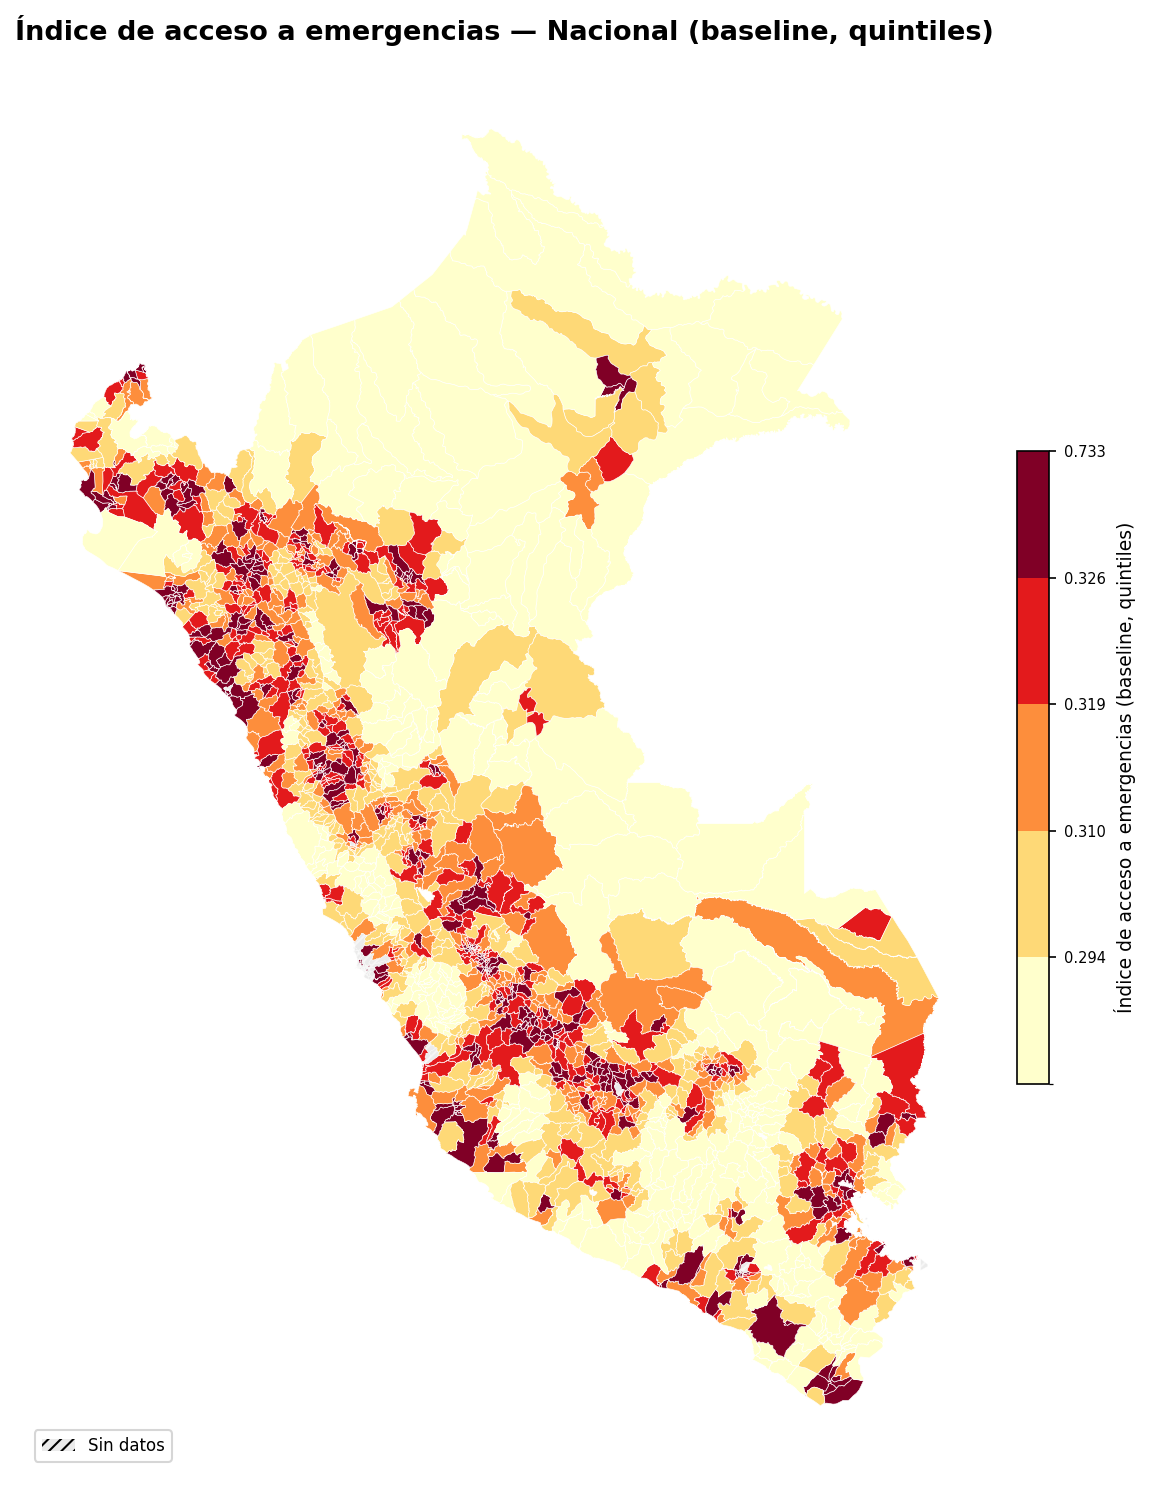
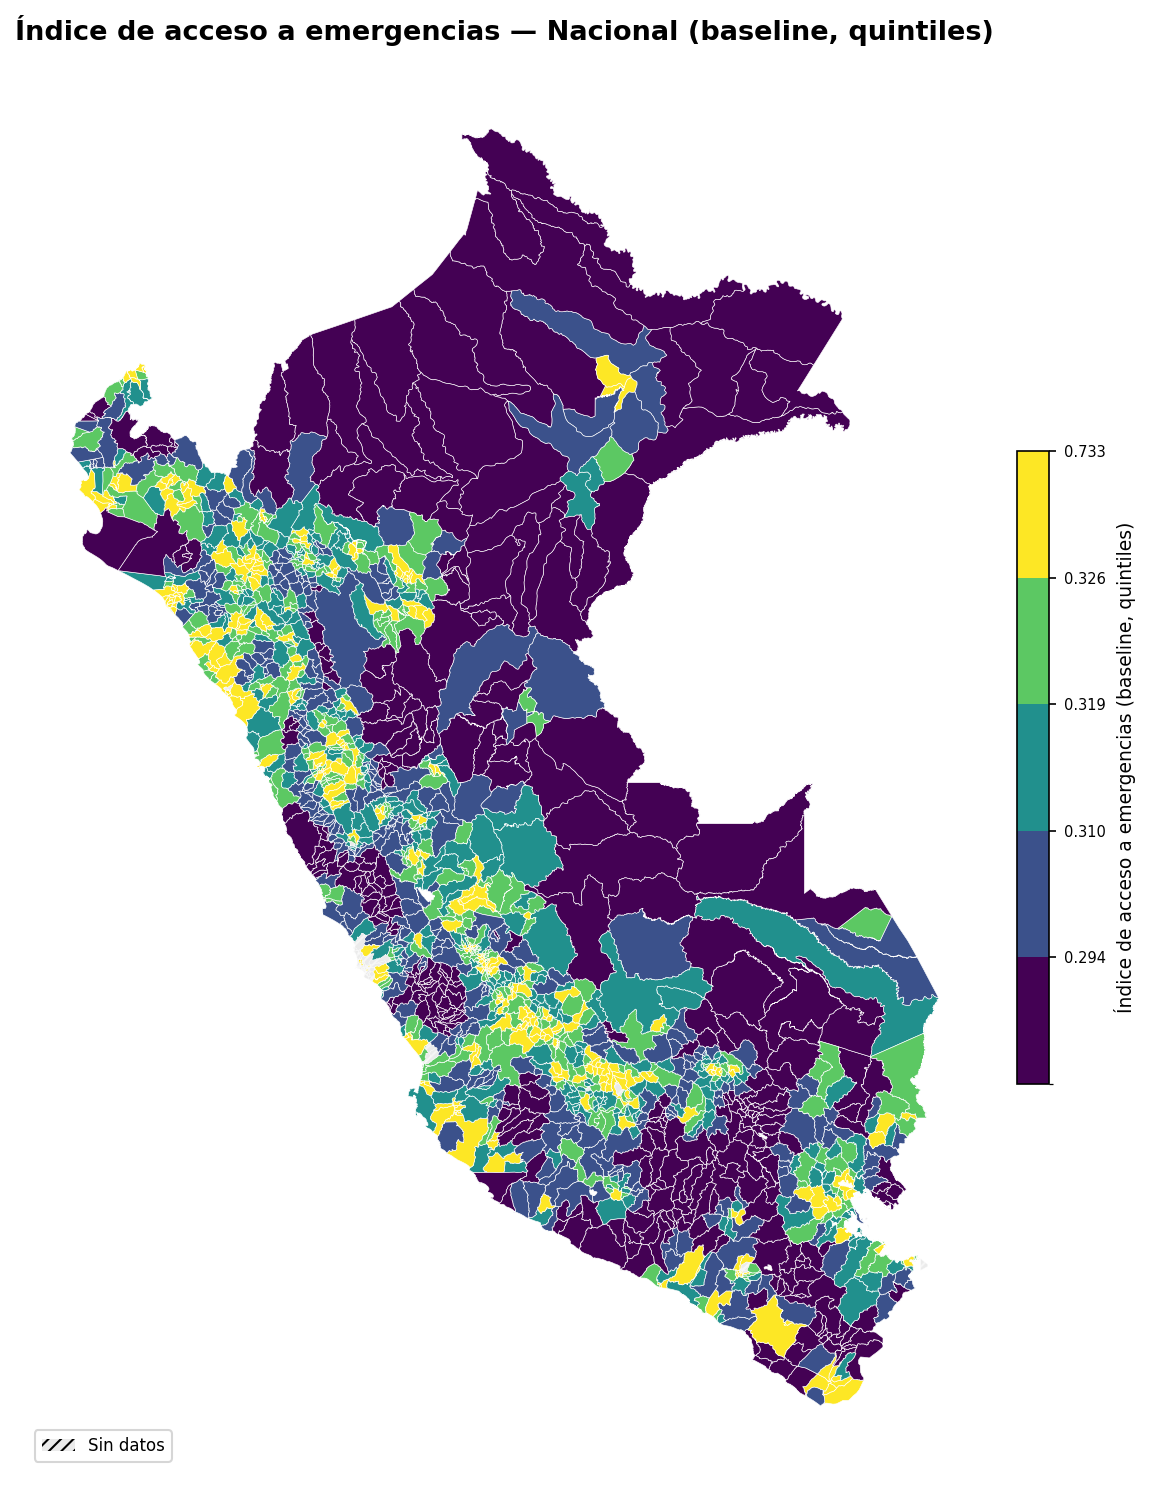
final definitive changes

diff --git a/src/mapping.py b/src/mapping.py
@@ -12,7 +12,9 @@ CRS convention: EPSG:4326 for all outputs (matplotlib and Folium).
 from __future__ import annotations
 
 import warnings
-from typing import Optional
+
+import matplotlib
+matplotlib.use("Agg")   # non-interactive backend; must precede pyplot import
 
 import geopandas as gpd
 import mapclassify
@@ -31,8 +33,9 @@ except ImportError:
     _FOLIUM_OK = False
 
 # ── Shared style constants ────────────────────────────────────────────────────
-_CMAP_SEQUENTIAL   = "YlOrRd"
-_CMAP_DIVERGING    = "RdBu_r"
+_CMAP_SEQUENTIAL   = "viridis"   # index maps: map01, map03, map04
+_CMAP_DIVERGING    = "RdBu_r"   # signed rank change: map02 right panel
+_CMAP_MAGNITUDE    = "YlOrRd"   # rank change magnitude: map05
 _EXCL_COLOR        = "#d9d9d9"
 _EXCL_HATCH        = "////"
 _EXCL_ALPHA        = 0.5
@@ -144,45 +147,79 @@ def plot_choropleth_comparison(
     distritos: gpd.GeoDataFrame,
     comparison_df: pd.DataFrame,
 ) -> plt.Figure:
+    """Panel izquierdo: choropleth baseline (viridis, quintiles).
+    Panel derecho: signed rank change = rank_baseline − rank_alt (RdBu_r divergente).
+    Azul (RdBu_r positivo) = rank_baseline > rank_alt = mejora con alternativa.
+    """
     distritos = _to_wgs84(distritos.copy())
 
     gdf = distritos.copy()
     gdf["UBIGEO"] = gdf["UBIGEO"].astype(int)
     cmp = comparison_df.copy()
     cmp["UBIGEO"] = cmp["UBIGEO"].astype(int)
-    merged = gdf.merge(cmp, on="UBIGEO", how="left")
+    # signed_rank_change > 0 means rank number rose under alt (worsened)
+    # signed_rank_change < 0 means rank number fell under alt (improved)
+    cmp["signed_rank_change"] = (
+        cmp["rank_baseline"].astype(float) - cmp["rank_alt"].astype(float)
+    )
+    merged = gdf.merge(cmp[["UBIGEO", "index_baseline", "signed_rank_change"]], on="UBIGEO", how="left")
 
-    included_b = merged[merged["index_baseline"].notna()].copy()
-    included_a = merged[merged["index_alt"].notna()].copy()
-    excluded   = merged[merged["index_baseline"].isna() & merged["index_alt"].isna()].copy()
+    included = merged[merged["index_baseline"].notna()].copy()
+    excluded  = merged[merged["index_baseline"].isna()].copy()
 
-    vmin = min(included_b["index_baseline"].min(), included_a["index_alt"].min())
-    vmax = max(included_b["index_baseline"].max(), included_a["index_alt"].max())
-    norm = mcolors.Normalize(vmin=vmin, vmax=vmax)
-    cmap = plt.get_cmap(_CMAP_SEQUENTIAL)
+    # ── Left: baseline viridis quintiles ─────────────────────────────────────
+    scheme_l = _classify(included["index_baseline"], k=5, scheme="quantiles")
+    bins_l   = np.concatenate([[included["index_baseline"].min()], scheme_l.bins])
+    norm_l   = mcolors.BoundaryNorm(bins_l, ncolors=256)
+    cmap_l   = plt.get_cmap(_CMAP_SEQUENTIAL)
 
-    fig, axes = plt.subplots(1, 2, figsize=(18, 9), dpi=_FIG_DPI)
+    # ── Right: signed rank change RdBu_r diverging ────────────────────────────
+    valid_chg = included["signed_rank_change"].dropna()
+    abs_max   = max(abs(valid_chg.min()), abs(valid_chg.max()), 1)
+    norm_r    = mcolors.TwoSlopeNorm(vmin=-abs_max, vcenter=0, vmax=abs_max)
+    cmap_r    = plt.get_cmap(_CMAP_DIVERGING)
+
+    fig, axes = plt.subplots(1, 2, figsize=(20, 10), dpi=_FIG_DPI)
     fig.suptitle(
-        "Comparación índice: Baseline vs Alternativa",
-        fontsize=14, fontweight="bold", y=1.01
+        "Comparación de especificaciones: baseline vs alternativa\n"
+        "Derecha: azul = mejora con alternativa (mayor peso espacial)  |  "
+        "rojo = empeora",
+        fontsize=12, fontweight="bold",
     )
 
-    for ax, col, title in zip(
-        axes,
-        ["index_baseline", "index_alt"],
-        ["Baseline", "Alternativa"],
-    ):
-        ax.set_title(title, fontsize=12, pad=8)
-        ax.set_axis_off()
-        data = included_b if col == "index_baseline" else included_a
-        data.plot(column=col, ax=ax, cmap=cmap, norm=norm,
+    # Left panel
+    axes[0].set_title("Índice baseline (viridis, quintiles)", fontsize=11, pad=8)
+    axes[0].set_axis_off()
+    included.plot(column="index_baseline", ax=axes[0],
+                  cmap=cmap_l, norm=norm_l,
                   edgecolor=_BORDER_COLOR, linewidth=_BORDER_WIDTH)
-        _draw_excluded(ax, excluded)
+    _draw_excluded(axes[0], excluded)
+    sm_l = mcm.ScalarMappable(cmap=cmap_l, norm=norm_l)
+    sm_l.set_array([])
+    cb_l = fig.colorbar(sm_l, ax=axes[0], shrink=0.45, pad=0.02,
+                        ticks=scheme_l.bins)
+    cb_l.set_label("Índice baseline", fontsize=8)
+    cb_l.ax.set_yticklabels([f"{b:.3f}" for b in scheme_l.bins], fontsize=7)
 
-    sm = mcm.ScalarMappable(cmap=cmap, norm=norm)
-    sm.set_array([])
-    cbar = fig.colorbar(sm, ax=axes, shrink=0.6, pad=0.02)
-    cbar.set_label("Índice de acceso a emergencias", fontsize=9)
+    # Right panel
+    axes[1].set_title(
+        "Cambio de rango firmado (rank_baseline − rank_alt)\n"
+        "Azul = mejora con alternativa  |  Rojo = empeora",
+        fontsize=10, pad=8,
+    )
+    axes[1].set_axis_off()
+    included_r = included[included["signed_rank_change"].notna()].copy()
+    included_r.plot(column="signed_rank_change", ax=axes[1],
+                    cmap=cmap_r, norm=norm_r,
+                    edgecolor=_BORDER_COLOR, linewidth=_BORDER_WIDTH)
+    _draw_excluded(axes[1], excluded)
+    sm_r = mcm.ScalarMappable(cmap=cmap_r, norm=norm_r)
+    sm_r.set_array([])
+    cb_r = fig.colorbar(sm_r, ax=axes[1], shrink=0.45, pad=0.02)
+    cb_r.set_label("rank_baseline − rank_alt", fontsize=8)
+
+    handles = [_excluded_patch()]
+    axes[0].legend(handles=handles, loc="lower left", fontsize=7, framealpha=0.8)
 
     fig.tight_layout()
     return fig
@@ -377,7 +414,7 @@ def folium_comparison_interactive(
         data=included[["UBIGEO", "rank_change_abs"]],
         columns=["UBIGEO", "rank_change_abs"],
         key_on="feature.properties.UBIGEO",
-        fill_color=_CMAP_SEQUENTIAL,
+        fill_color=_CMAP_MAGNITUDE,
         fill_opacity=0.75,
         line_opacity=0.2,
         nan_fill_color=_EXCL_COLOR,

diff --git a/run_mapping.py b/run_mapping.py
@@ -29,6 +29,7 @@ from mapping import (
     plot_choropleth_national,
     plot_lima_with_ipress,
 )
+from metrics import flag_tiene_emergencia
 
 # ── Rutas ─────────────────────────────────────────────────────────────────────
 DATA_DIR   = ROOT / "data" / "processed"
@@ -49,15 +50,9 @@ def load_data():
     index_df  = pd.read_parquet(INDEX_BASELINE)
     comp_df   = pd.read_parquet(COMPARISON_PARQUET)
 
-    flag_col = next(
-        (c for c in ipress.columns if "emergencia" in c.lower()), None
-    )
-    if flag_col:
-        ipress_emerg = ipress[ipress[flag_col].astype(bool)].copy()
-        print(f"  IPRESS de emergencia: {len(ipress_emerg):,} (col '{flag_col}')")
-    else:
-        print("  ADVERTENCIA: sin columna de flag emergencia; usando todas las IPRESS.")
-        ipress_emerg = ipress.copy()
+    flag = flag_tiene_emergencia(ipress, mode="baseline")
+    ipress_emerg = ipress[flag].copy()
+    print(f"  IPRESS de emergencia (baseline flag): {len(ipress_emerg):,} / {len(ipress):,} total")
 
     return distritos, ipress_emerg, index_df, comp_df
 
@@ -93,7 +88,7 @@ def main():
     m.save(str(OUTPUT_DIR / "map05_interactive_comparison.html"))
     print("  Guardado.")
 
-    print("\n✓ Todos los mapas generados en:", OUTPUT_DIR)
+    print("\nOK - Todos los mapas generados en:", OUTPUT_DIR)
 
 
 def plt_close(fig):

diff --git a/app.py b/app.py
@@ -373,7 +373,6 @@ with tab4:
                 "index_alt": "Índice alt.",
                 "rank_baseline": "Rank baseline",
                 "rank_alt": "Rank alt.",
-                "rank_change": "Δ Rank",
                 "rank_change_abs": "Δ Rank (abs)",
             }),
             use_container_width=True,
